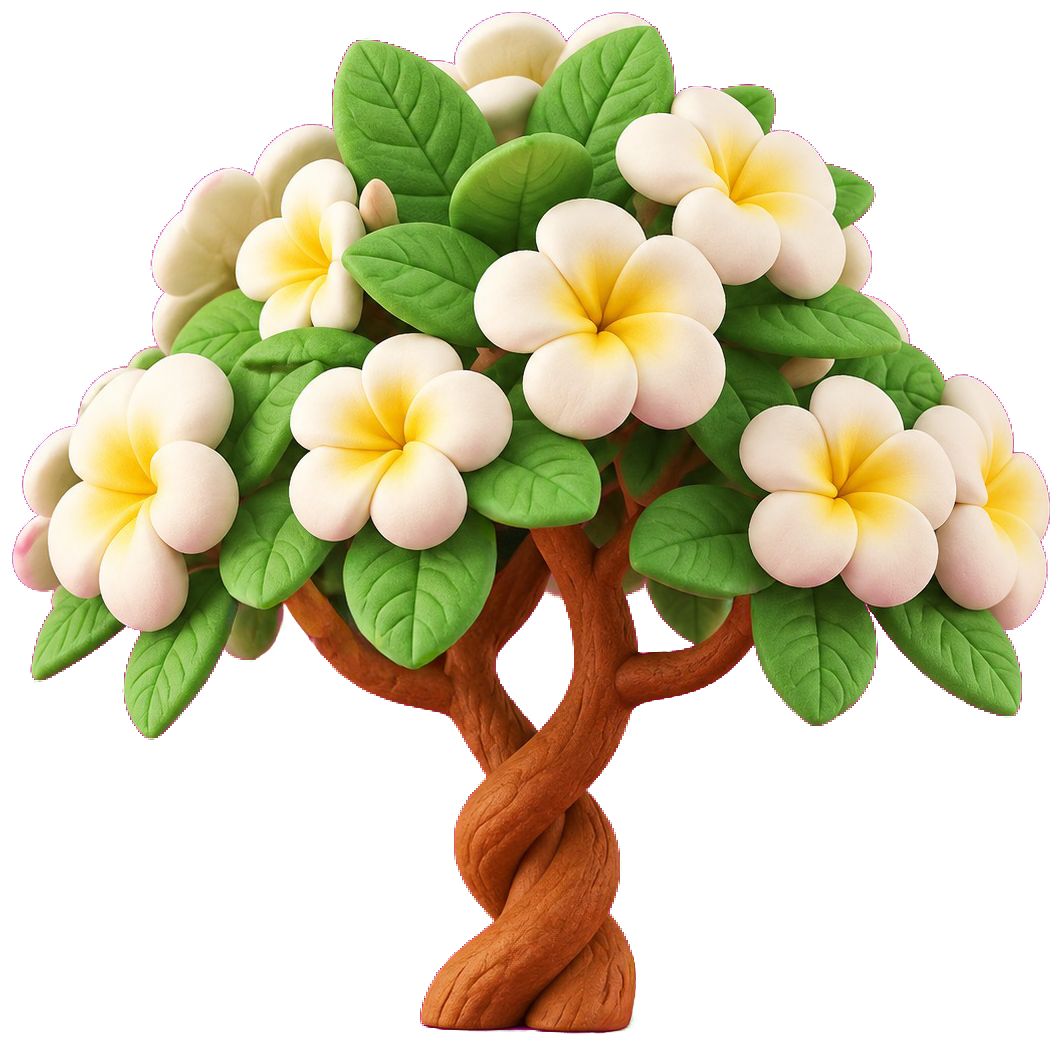
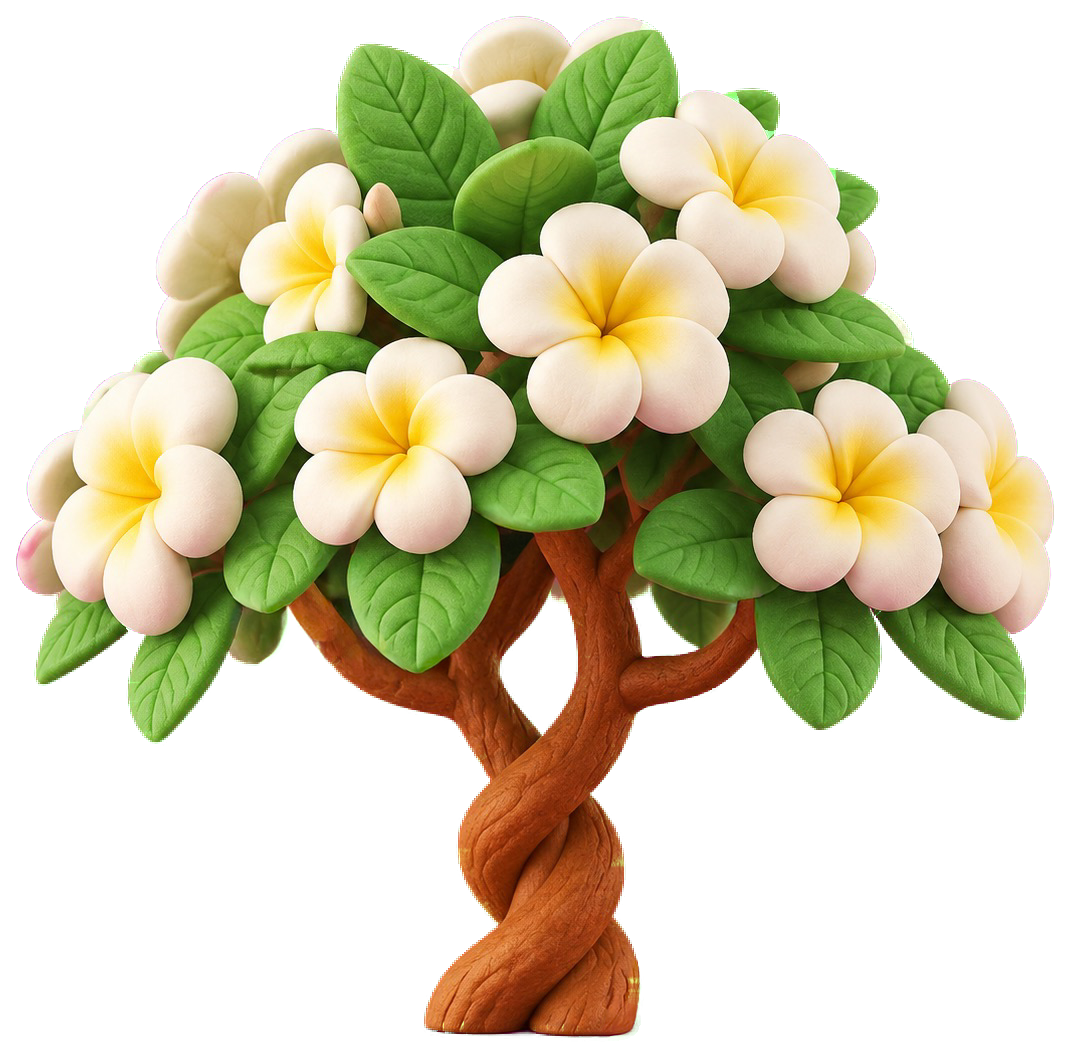
Add frangipanier night variant, fix a magenta fringe on all three
Adds the night render, wiring day/golden/night each to their own
DecorVariant now that all three periods have real art (no more empty
night filler pool).

Also fixes a defect present in all three cutouts since the first push,
only caught on a zoomed-in look at the night render's petal edges: a
thin but real magenta/purple fringe along every petal and leaf
boundary. Root cause was this file's usual edge alpha (a smoothstep
between two fixed color-distance thresholds) assuming every material
reaches full opacity around the same distance from the background --
true for the saturated colors earlier cutouts used, false here, where
a pale white petal needs roughly double the color-distance of the
tree's own dark trunk to actually reach full coverage. A single global
threshold read petal edges as fully opaque at ~40% real coverage,
baking in visible background color.

Fixed by replacing the fixed threshold with a local one: erode the
already-reliable silhouette shape to find safely-interior "core"
pixels, then for each edge pixel project its offset from the
background onto the axis toward its own *nearest* core pixel's color,
rather than a single global reference. Adapts per-region instead of
needing a hand-tuned threshold per material.

Claude-Session: https://claude.ai/code/session_01QJhmBXxG8bP3KG6H3AZ1rh

diff --git a/mobile/lib/screens/progression_map_screen.dart b/mobile/lib/screens/progression_map_screen.dart
@@ -45,14 +45,11 @@ class _ProgressionMapScreenState extends State<ProgressionMapScreen>
   // just under its owner's so it always draws immediately behind it.
   static const double _shadowSortEpsilon = 0.0001;
 
-  /// Filler decor, day/golden-hour only so far. Unlike the level buttons
-  /// (one asset set reused as-is for both periods), the creator sent a
-  /// distinct golden-hour render for this piece -- same pose, but
-  /// visibly warmer-graded than the day version -- so each period gets
-  /// its own asset rather than sharing one. Night stays an empty pool
-  /// rather than showing a daytime-lit tree under a night sky, same
-  /// reasoning as the buttons staying on their placeholder at night:
-  /// better nothing than a wrong-looking "final" result.
+  /// Filler decor. Unlike the level buttons (one asset set reused as-is
+  /// for both periods), the creator sent a genuinely distinct render per
+  /// period for this piece -- same pose each time, but a different color
+  /// grade -- so day/golden-hour/night each get their own asset rather
+  /// than sharing one.
   static const List<DecorVariant> _fillerDay = [
     DecorVariant(
       assetName: 'assets/progression_map/frangipanier_day.png',
@@ -67,10 +64,17 @@ class _ProgressionMapScreenState extends State<ProgressionMapScreen>
       baseScale: 1.2,
     ),
   ];
+  static const List<DecorVariant> _fillerNight = [
+    DecorVariant(
+      assetName: 'assets/progression_map/frangipanier_night.png',
+      category: DecorCategory.filler,
+      baseScale: 1.2,
+    ),
+  ];
   static const Map<DayNightPeriod, List<DecorVariant>> _fillerPoolByPeriod = {
     DayNightPeriod.day: _fillerDay,
     DayNightPeriod.goldenHour: _fillerGolden,
-    DayNightPeriod.night: [],
+    DayNightPeriod.night: _fillerNight,
   };
 
   /// Landmark pool (the Coffee Bar building) stays empty until that art

diff --git a/mobile/README.md b/mobile/README.md
@@ -711,34 +711,64 @@ a `DecorVariant` per asset once the creator sends them is the only
 wiring left; nothing else about the scatter or the scroll needs to
 change.
 
-First filler variant in is a plumeria tree ("frangipanier"), day/
-golden-hour only for now. Unlike the level buttons, which reuse one
-asset set as-is for both periods, the creator sent a genuinely distinct
-golden-hour render for this piece -- same pose, visibly warmer-graded
--- so `assets/progression_map/frangipanier_day.png` and
-`frangipanier_golden.png` are two separate cutouts, each pulled against
-its own source's background color (the golden version's magenta
-backdrop itself reads warmer, ~(242,42,148) vs. the day version's
-~(212,14,155), consistent with a color grade applied to the whole
-render rather than just the tree). Night still stays an empty pool --
-no night art exists yet, and a daytime/golden-lit tree under a night
-sky would look wrong. `_decorScatter` moved from a `static const` to a
-`late final` set in `initState` so its filler pool can be picked per
-`_period`, the same way `_cloudAssets` already was.
+First filler variant in is a plumeria tree ("frangipanier"), now with
+a complete day/golden-hour/night set. Unlike the level buttons, which
+reuse one asset set as-is for day and golden hour, the creator sent a
+genuinely distinct render per period for this piece -- same pose every
+time, but each on its own color-graded background (day's magenta reads
+~(212,14,155), golden's the same hue but warmer at ~(242,42,148),
+night's a cooler purple at ~(133,0,141)) -- so all three are separate
+cutouts rather than any period reusing another's asset.
+`assets/progression_map/frangipanier_{day,golden,night}.png`,
+registered in their own `_fillerDay`/`_fillerGolden`/`_fillerNight`
+lists. `_decorScatter` moved from a `static const` to a `late final`
+set in `initState` so its filler pool can be picked per `_period`, the
+same way `_cloudAssets` already was.
 
-This cutout's background (flat magenta, crisp edges) posed no real
-challenge on its own, but its subject did: a full tree canopy has
-several genuine gaps between overlapping leaves where the background
-shows through, not just noise. The usual size-gated hole-fill (fill
-small holes, leave large ones open) still applies, but the size cutoff
-needed rethinking for this image specifically -- checking the actual
-hole sizes first showed every true noise artifact here was a single
-stray pixel, while the two real gaps in the canopy ran into the
-thousands of pixels, so the fill threshold got set far tighter (80px)
-than the compass-ring-style cutouts that motivated the technique
-originally. Worth checking per image rather than assuming the same
-threshold always applies -- a leafy silhouette and a metal ring don't
-fail the same way.
+This cutout's background (flat magenta/purple, crisp edges) posed no
+real challenge on its own, but its subject did, in two different ways.
+First: a full tree canopy has several genuine gaps between overlapping
+leaves where the background shows through, not just noise. The usual
+size-gated hole-fill (fill small holes, leave large ones open) still
+applies, but the size cutoff needed rethinking for this image
+specifically -- checking the actual hole sizes first showed every true
+noise artifact here was a single stray pixel, while the two real gaps
+in the canopy ran into the thousands of pixels, so the fill threshold
+got set far tighter (80px) than the compass-ring-style cutouts that
+motivated the technique originally. Worth checking per image rather
+than assuming the same threshold always applies -- a leafy silhouette
+and a metal ring don't fail the same way.
+
+Second, a subtler one that shipped unnoticed in the first version of
+all three cutouts, until a zoomed-in look at the night render's petal
+edges (prompted by nothing more than double-checking before calling it
+done) caught a thin but real magenta/purple fringe tracing every
+petal and leaf boundary -- present in the already-pushed day and
+golden versions too once checked, just easier to miss against their
+own warmer palettes. Root cause: this file's usual edge alpha (a
+smoothstep between two fixed color-distance thresholds, tuned once
+against saturated button/star colors) assumes every material reaches
+"fully opaque" around the same raw color-distance from the background.
+That's false for a pale white petal on a saturated magenta backdrop --
+white sits ~264 color-distance units from that background at true full
+opacity, while the tree's dark trunk brown sits only ~140-160 away even
+at its own true full opacity. One fixed HI threshold can't be correct
+for both: calibrated low enough for the trunk, it reads a petal edge as
+"fully opaque" at barely 40% real coverage, baking in a visible
+half-background color. Fixed by dropping the fixed-threshold model
+entirely in favor of a local one: erode the already-reliable silhouette
+shape (not a color cutoff) to get a safely-interior "core", then for
+every edge pixel find its *nearest* core pixel and use that pixel's own
+color as the local fully-opaque reference -- solving alpha by
+projecting the edge pixel's offset from the background onto that local
+background-to-foreground axis, instead of comparing against one global
+constant. Adapts per-region automatically (dark trunk and pale petal
+each get their own correct reference) rather than needing a hand-tuned
+threshold per material. Worth reusing this approach directly if a
+future cutout mixes very pale and very saturated/dark colors in the
+same image against one saturated backdrop -- the button and star
+cutouts never hit this because their colors were all in a narrower,
+more uniform saturation range.
 
 Every node and decor piece also casts a contact shadow now -- the
 creator asked directly how the scroll would actually read as "resting

diff --git a/README.md b/README.md
@@ -92,8 +92,9 @@ model, XP/lives formulas — is unchanged, since none of it was iOS-specific).
       contact shadow that scales with the same 3D projection, so items
       read as resting on the curved surface rather than pasted on top of
       it. Decor scatter has its first real filler variant (a plumeria
-      tree, day/golden hour) with the landmark pool (the Coffee Bar
-      building) and the rest of the filler variety (palm trees, hibiscus)
+      tree, with a full day/golden/night set) with the landmark pool (the
+      Coffee Bar building) and the rest of the filler variety (palm trees,
+      hibiscus)
       still pending. Day/night cycle *for the level map itself*, the
       biome swap every 10 levels, and infinite level generation past the
       first 1000 preloaded are still explicitly deferred. See
